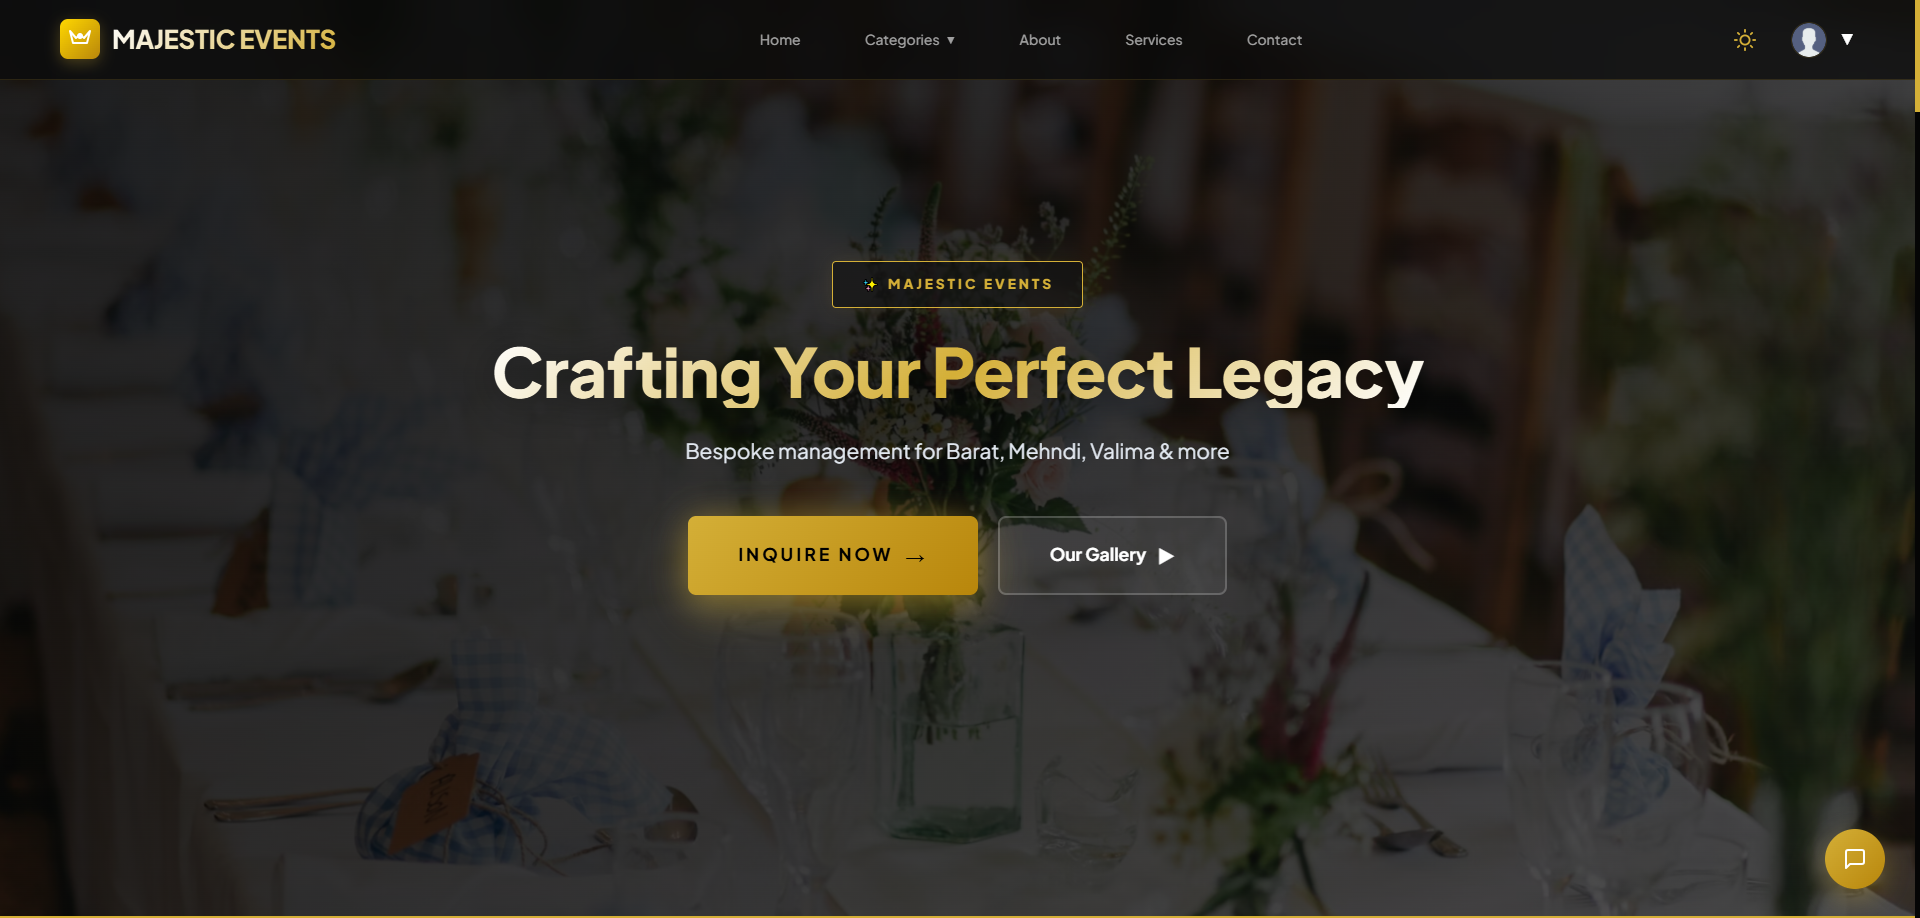
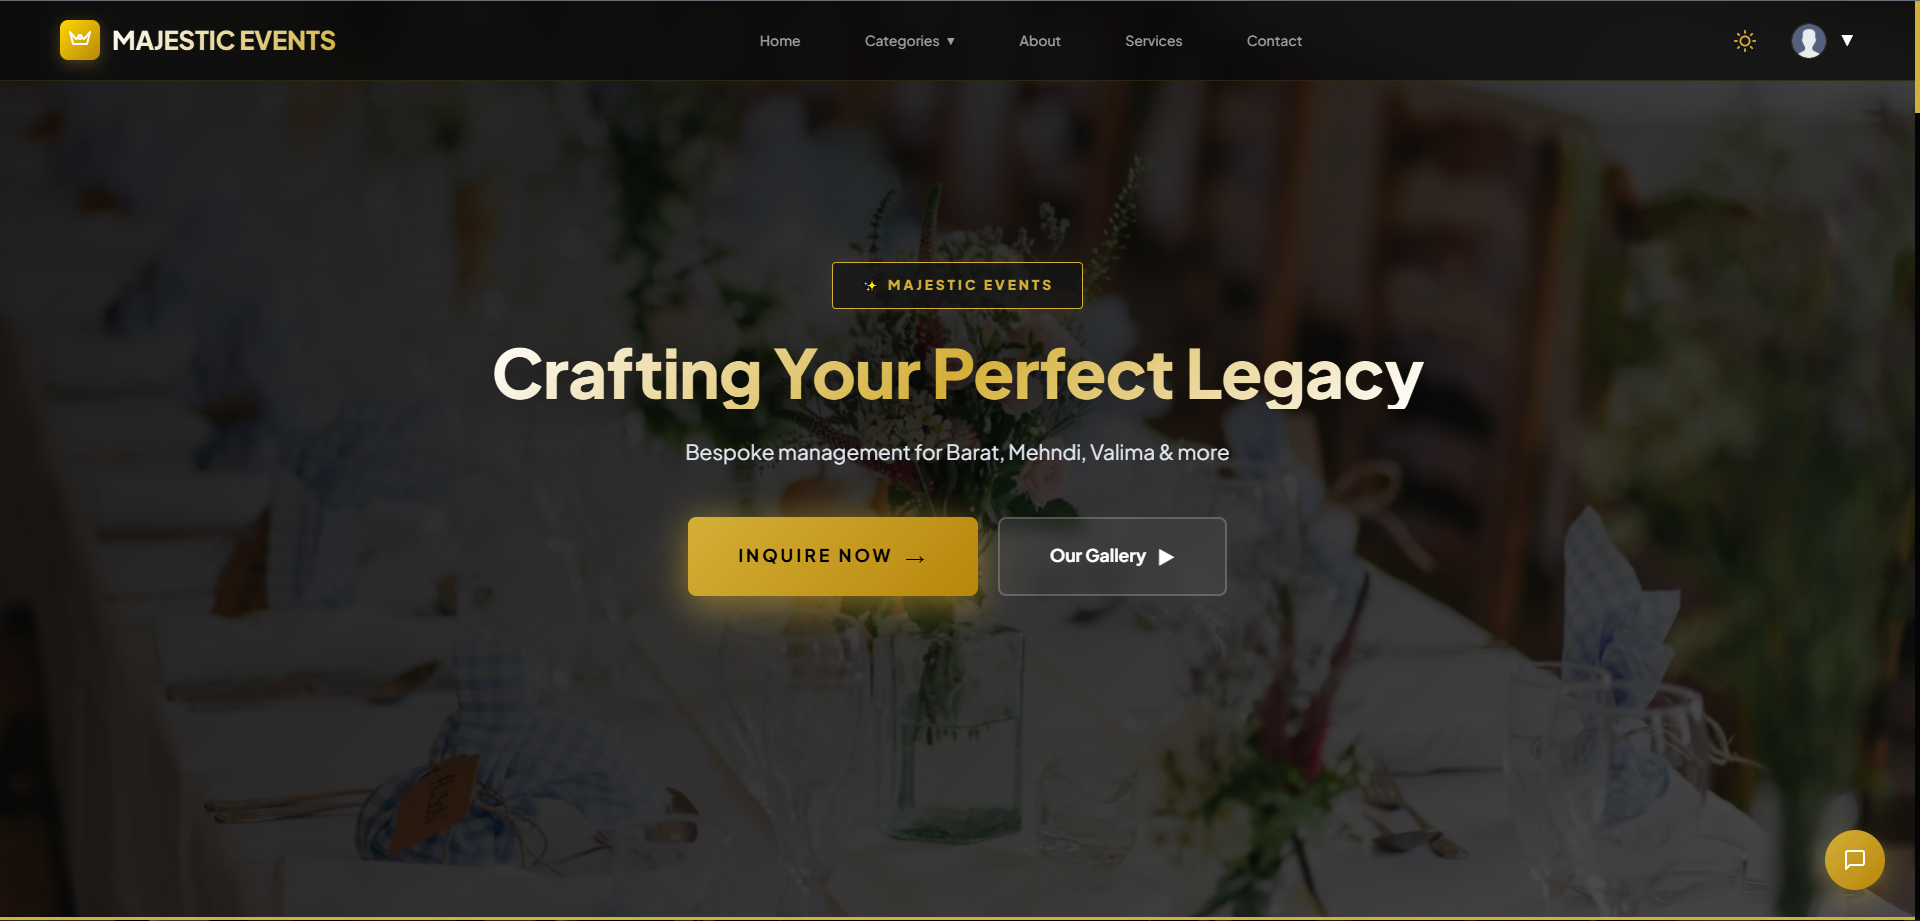
Improve Events project title, description and tech stack

diff --git a/FrontEnd/src/data.js b/FrontEnd/src/data.js
@@ -25,9 +25,9 @@ export const profile = {
 export const projects = [
   {
     _id: "1",
-    title: "Naqsh Events – Full-Stack Event Management Portal",
-    description: "A robust and scalable Event Management System designed to streamline event planning and booking. This project features a dynamic dashboard for real-time tracking, secure user authentication, and a responsive UI. Built with a focus on performance and seamless user experience using a modern MERN-style architecture.",
-    technologies: ["React Vite", "Node.js Express.js", "MongoDB", "Redux"],
+    title: "Majestic Events – Full-Stack Event Planning & Booking Platform",
+    description: "A feature-rich event management platform where users can explore and book premium events like Weddings, Birthdays, Mehendi, and Valima ceremonies. Includes a powerful admin panel with category management, slide management, real-time chat system, user management, and review moderation. Features secure Google & OTP-based authentication, responsive glassmorphism UI, and a fully deployed serverless backend.",
+    technologies: ["React.js", "Vite", "Redux Toolkit", "Node.js", "Express.js", "MongoDB", "JWT Auth", "Cloudinary"],
     imageUrl: "/events.png",
     liveDemo: "https://event-managment-f.vercel.app/",
     gitFrontend: "https://github.com/Naqsh786/Event-Managment/tree/main/FrontEnd/web",
@@ -39,7 +39,7 @@ export const projects = [
     description: "An advanced hotel management and room booking application featuring role-based dashboards (Admin, Staff, and Guest). Includes real-time booking, interactive room filters, Stripe checkout integration, food ordering inventory, and dynamic business charts. Fully optimized for cold starts on serverless hosting with Cloudinary asset management.",
     technologies: ["React.js", "Redux Toolkit", "Node.js", "Express.js", "MongoDB", "Stripe API", "Cloudinary"],
     imageUrl: "/hotel.png",
-    liveDemo: "https://hotel-managment-system-f.vercel.app/",
+    liveDemo: "https://hotel-managment-system-wheat.vercel.app/",
     gitFrontend: "https://github.com/Naqsh786/Hotel-Managment-System/tree/main/client",
     gitBackend: "https://github.com/Naqsh786/Hotel-Managment-System/tree/main/server",
   }
